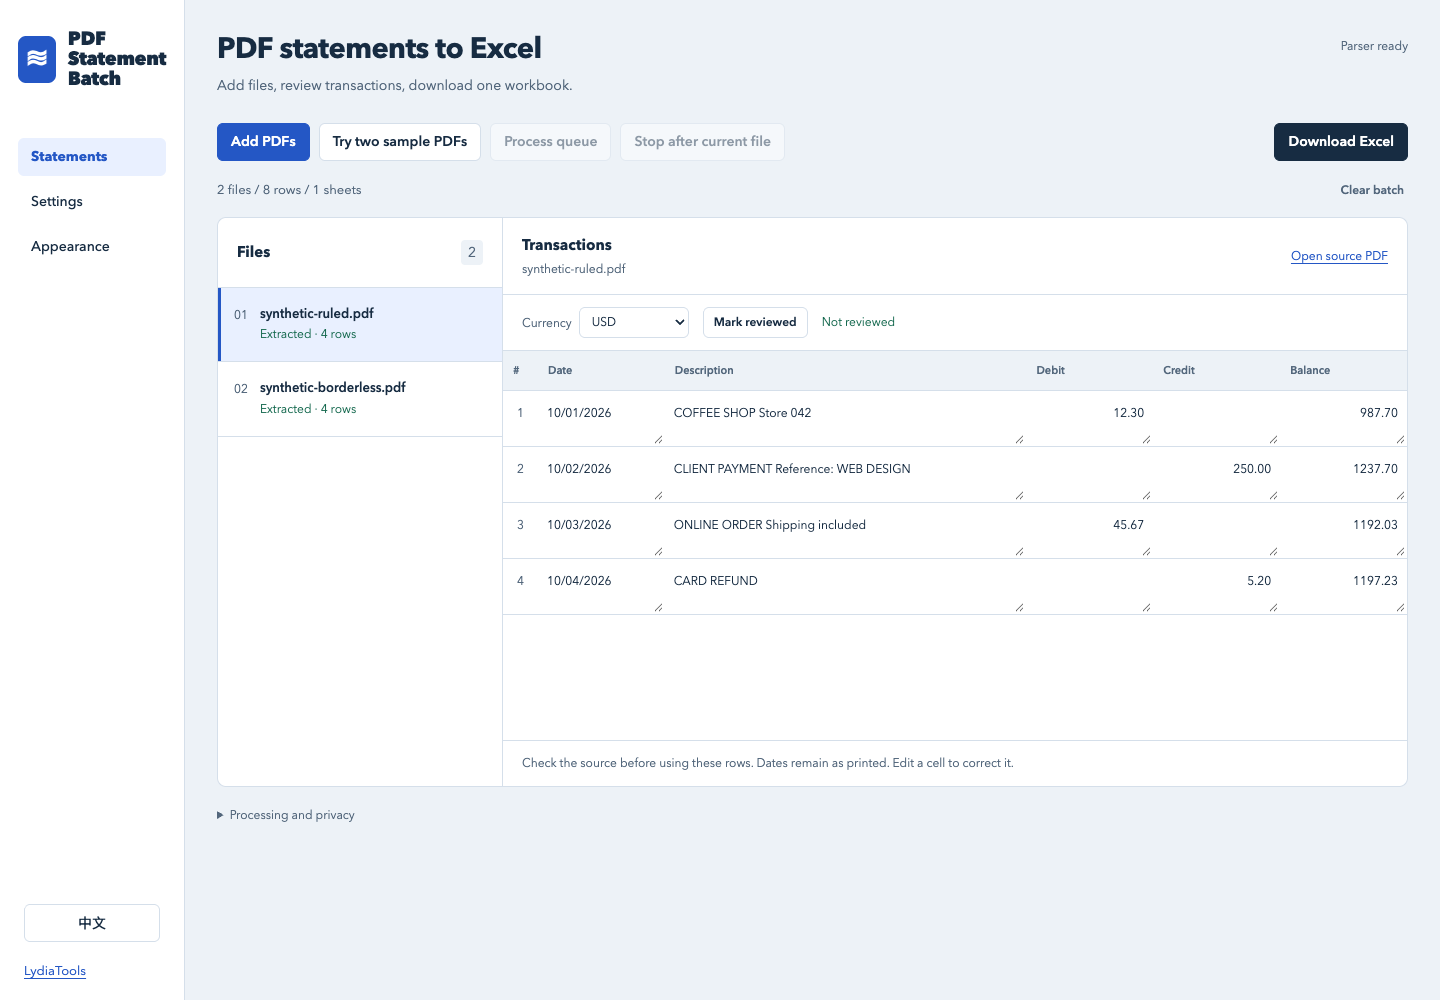
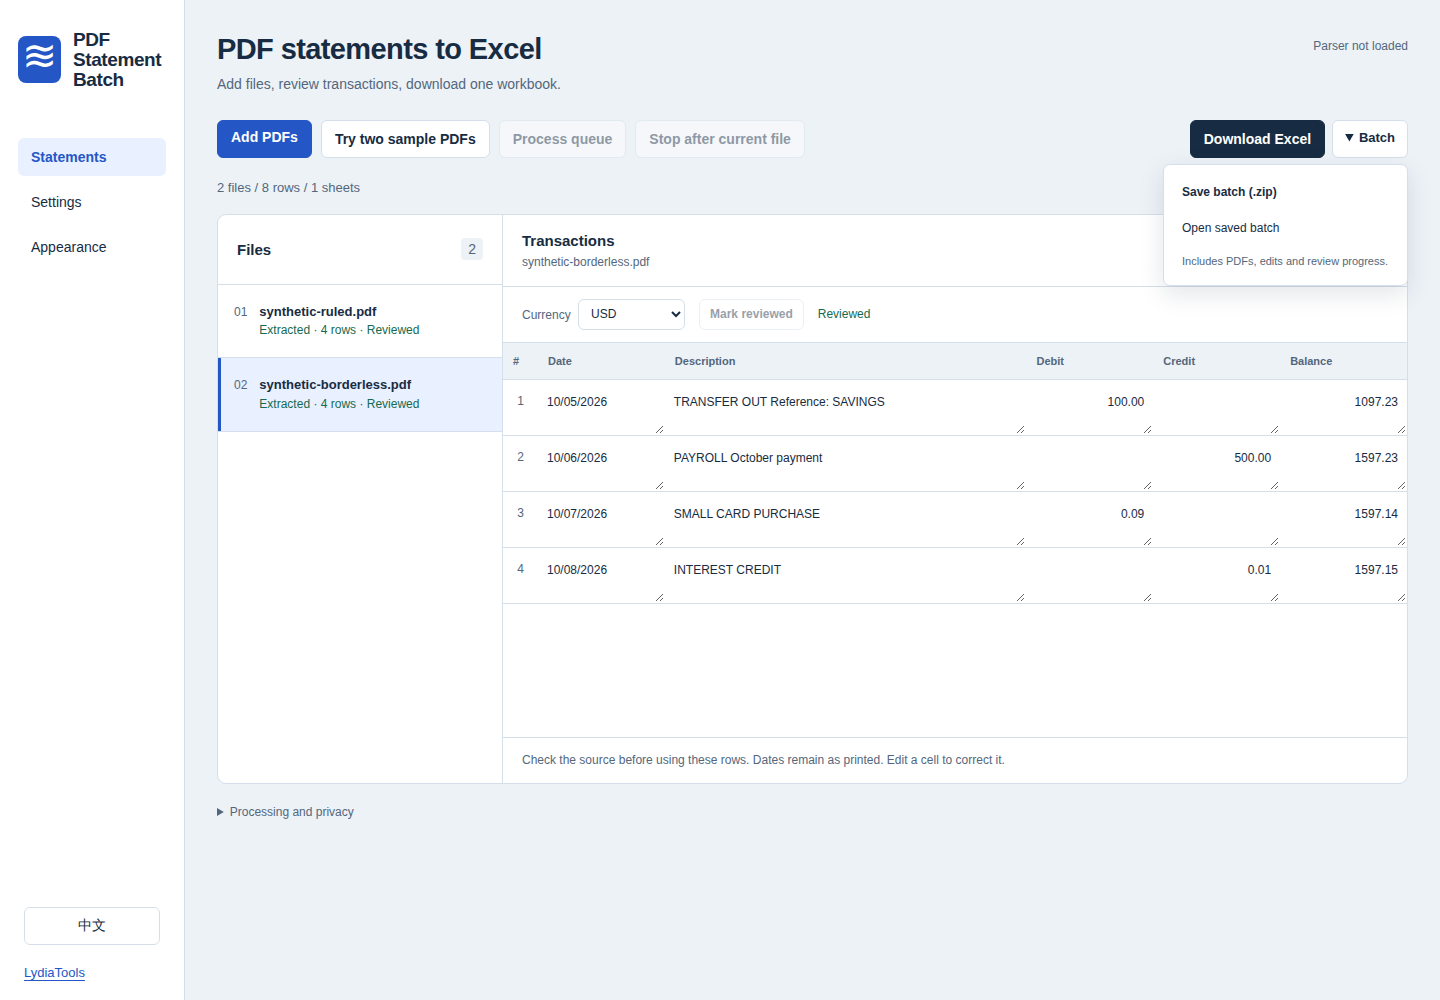
Verify restored preferences and preserve retry input limits

diff --git a/src/app.js b/src/app.js
@@ -1,5 +1,5 @@
 import { parseWithPositions } from './vendor/parsers/generic-parser.js';
-import { explicitCurrency, groups, moneyHeader, workbookSheets } from './core.js';
+import { explicitCurrency, groups, moneyHeader, workbookSheets, inputError } from './core.js';
 import { writeWorkbook } from './xlsx.js';
 import { strings } from './i18n.js';
 import { saveBatch, openBatch } from './session.js';
@@ -74,8 +74,8 @@ function renderSheet() {
 function addFiles(incoming) {
   for (const file of incoming) {
     const item = { id: nextId++, name: file.name, file, status: 'queued', rows: [], headers: [], currency: '', reviewed: false, edits: 0 };
-    if (!/\.pdf$/i.test(file.name)) Object.assign(item, { status: 'failed', errorKey: 'unsupported', error: strings.en.unsupported });
-    else if (file.size > 50 * 1024 * 1024) Object.assign(item, { status: 'failed', errorKey: 'fileLimit', error: strings.en.fileLimit });
+    const errorKey = inputError(file);
+    if (errorKey) Object.assign(item, { status: 'failed', errorKey, error: strings.en[errorKey] });
     files.push(item);
   }
   if (!selected) selected = files[0]?.id;
@@ -121,6 +121,8 @@ async function run() {
       if (stop) { f.status = 'canceled'; continue; }
       f.status = 'processing'; render();
       try {
+        const errorKey = inputError(f.file);
+        if (errorKey) { fail(f, errorKey); render(); continue; }
         const bytes = await f.file.arrayBuffer();
         f.hash = [...new Uint8Array(await crypto.subtle.digest('SHA-256', bytes))].map(x => x.toString(16).padStart(2, '0')).join('');
         const original = $('deduplicate').checked && files.find(x => x.id < f.id && x.hash === f.hash && x.status === 'parsed');

diff --git a/src/session.js b/src/session.js
@@ -41,7 +41,7 @@ export async function openBatch(bytes) {
       expandedBytes += item.originalSize;
       if (++count > 1002 || !Number.isSafeInteger(item.originalSize) || item.originalSize < 0 || expandedBytes > MAX_BATCH_BYTES + MAX_METADATA_BYTES) tooLarge();
       if (item.name === 'batch.json' && item.originalSize > MAX_METADATA_BYTES) tooLarge();
-      if (item.name.startsWith('files/') && item.originalSize > 50 * 1024 * 1024) tooLarge();
+      if (item.name.startsWith('files/') && item.originalSize > MAX_BATCH_BYTES) tooLarge();
       if (item.name === 'batch.sha256' && item.originalSize !== 64) invalid();
       return true;
     } });

diff --git a/src/core.js b/src/core.js
@@ -1,5 +1,10 @@
 export const STATUSES = ['queued', 'processing', 'parsed', 'failed', 'canceled', 'duplicate'];
 
+export function inputError(file) {
+  if (!/\.pdf$/i.test(file.name)) return 'unsupported';
+  return file.size > 50 * 1024 * 1024 ? 'fileLimit' : '';
+}
+
 export function explicitCurrency(text) {
   const found = [...String(text).matchAll(/\bCurrency\s*[:=]\s*([A-Z]{3})\b/g)].map(m => m[1]);
   return [...new Set(found)].length === 1 ? found[0] : '';
